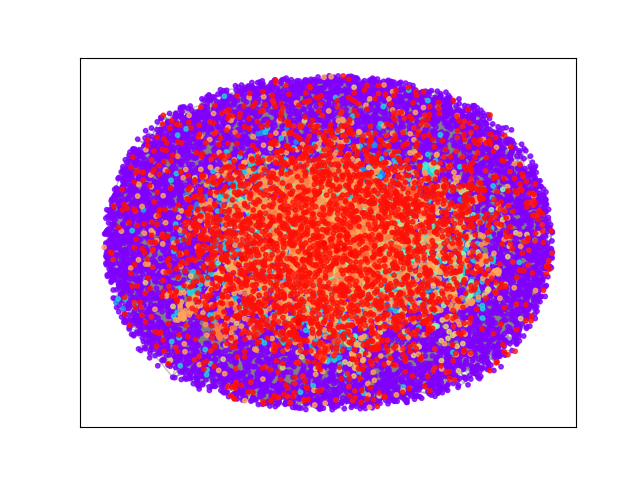
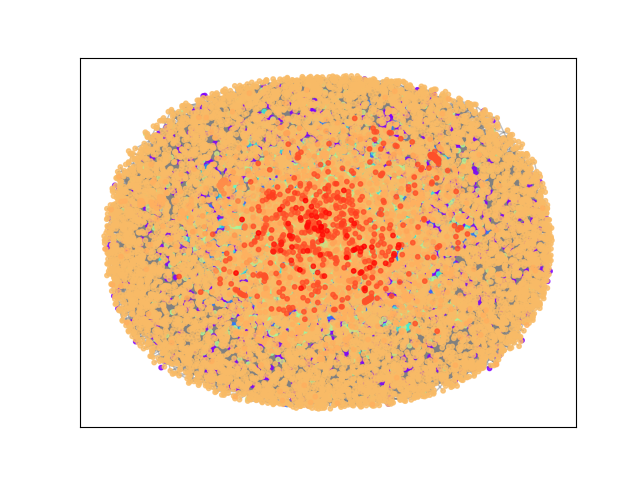
graphs

diff --git a/Graph.py b/Graph.py
@@ -174,7 +174,7 @@ class Graph:
         """
         print(f"Drawing map with partitioned vertices")
 
-        pos = nx.spring_layout(self.G, k=0.15)  # k=0.2
+        pos = nx.spring_layout(self.G)  # k=0.2
         # print(f"self.k is {self.k}")
         cmap = plt.cm.rainbow(np.linspace(0, 1, self.k))
         # print(f"cmap is {cmap}")
@@ -246,7 +246,7 @@ class Graph:
         # write node and cluster data
         self.df_output.to_csv(file_dir,
                               sep=' ',
-                              header=True,
+                              header=False,
                               index=False)
 
         # TODO
